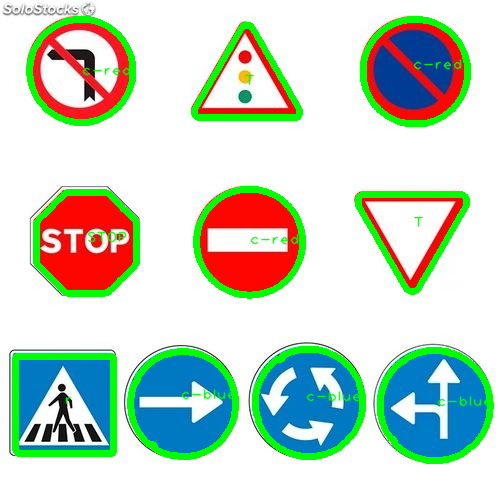
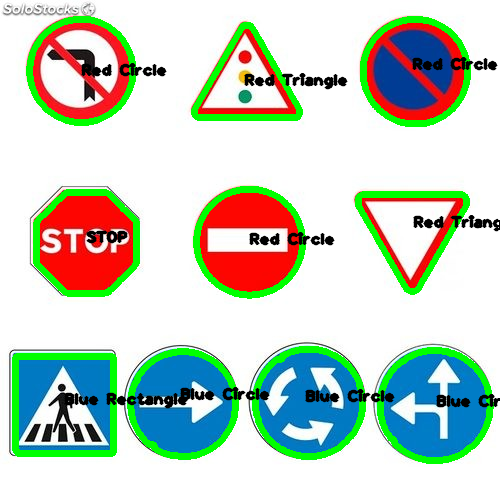
Print Signs Information

diff --git a/project1/src/detector.py b/project1/src/detector.py
@@ -28,9 +28,13 @@ class Detector:
         self.minimumSignSize = MINIMUM_SIGN_SIZE * h * w
         print("Minimum Sign Size: " + str(self.minimumSignSize))
         self.detected = {}
+        self.detectedSigns = []
 
     def getDetected(self):
         return self.detected
+
+    def getDetectedSigns(self):
+        return self.detectedSigns
 
     def prepareImg(self, color, img):
         img = removeAllButOneColor(img,color)
@@ -44,7 +48,7 @@ class Detector:
             "info": [],
             "debugImg": None,
             "coordText": [],
-            "text": "c-" + color
+            "text": color + " Circle"
         }
         self.detected["c-" + color] = circlesObj
         for img in self.arrays[color]:
@@ -61,13 +65,13 @@ class Detector:
                 for coords in approx:
                     circle.append((coords[0][0],coords[0][1]))
                 if calculateArea(circle) >= self.minimumSignSize:
-                    print("Circle: " + str(calculateArea(circle)))
                     center = getCenter(circle)
                     centers.append(center)
                     circles.append([cnt])
-        
-        print("circle: " + str(circles))
-        print("centers: " + str(centers))
+                    self.detectedSigns.append({
+                        "name": self.detected["c-" + color]["text"],
+                        "sign": circle
+                    })
         self.detected["c-" + color]["info"].append(circles)
         self.detected["c-" + color]["coordText"].append(centers)
         return contours, gray, circles
@@ -77,7 +81,7 @@ class Detector:
             "info": [],
             "debugImg": None,
             "coordText": [],
-            "text": "T"
+            "text": color + " Triangle"
         }
         self.detected["t"] = trianglesObj
         for img in self.arrays[color]:
@@ -94,11 +98,13 @@ class Detector:
                             (approx[1][0][0],approx[1][0][1]),
                             (approx[2][0][0],approx[2][0][1])]
                 if calculateArea(triangle) >= self.minimumSignSize:
-                    print("Triangle: " + str(calculateArea(triangle)))
                     center = getCenter(triangle)
                     centers.append(center)
                     triangles.append([cnt])
-
+                    self.detectedSigns.append({
+                        "name": self.detected["t"]["text"],
+                        "sign": triangle
+                    })
         self.detected["t"]["info"].append(triangles)
         self.detected["t"]["coordText"].append(centers)
         return contours, gray, triangles
@@ -108,7 +114,7 @@ class Detector:
             "info": [],
             "debugImg": None,
             "coordText": [],
-            "text": "r"
+            "text": color + " Rectangle"
         }
         self.detected["r"] = rectanglesObj
         for img in self.arrays[color]:
@@ -126,13 +132,13 @@ class Detector:
                             (approx[2][0][0],approx[2][0][1]),
                             (approx[3][0][0],approx[3][0][1])]
                 if calculateArea(rectangle) >= self.minimumSignSize:
-                    print("Rectangle: " + str(calculateArea(rectangle)))
                     center = getCenter(rectangle)
                     centers.append(center)
                     rectangles.append([cnt])
-
-        print("rect: " + str(rectangles))
-        print("centers: " + str(centers))
+                    self.detectedSigns.append({
+                        "name": self.detected["r"]["text"],
+                        "sign": rectangle
+                    })
         self.detected["r"]["info"].append(rectangles)
         self.detected["r"]["coordText"].append(centers)
         return contours, gray, rectangles
@@ -145,12 +151,12 @@ class Detector:
             "text": "STOP"
         }
         self.detected["STOP"] = stopsObj
-        for img in self.arrays["red"]:
+        for img in self.arrays["Red"]:
             self.detectStopInOneImage(img)
 
 
     def detectStopInOneImage(self, img):
-        gray, ret, thresh, contours, h = self.prepareImg("red", img)    
+        gray, ret, thresh, contours, h = self.prepareImg("Red", img)    
         stops = []
         centers = []
         for cnt in contours:
@@ -165,10 +171,13 @@ class Detector:
                         (approx[6][0][0],approx[6][0][1]),
                         (approx[7][0][0],approx[7][0][1])]
                 if calculateArea(stop) >= self.minimumSignSize:
-                    print("STOP: " + str(calculateArea(stop)))
                     center = getCenter(stop)
                     centers.append(center)
                     stops.append([cnt])
+                    self.detectedSigns.append({
+                        "name": self.detected["STOP"]["text"],
+                        "sign": stop
+                    })
         self.detected["STOP"]["info"].append(stops)
         self.detected["STOP"]["coordText"].append(centers)
         return contours, gray, stops

diff --git a/project1/src/preprocessor.py b/project1/src/preprocessor.py
@@ -20,19 +20,19 @@ class Preprocessor:
         w = img.shape[1]
         self.blueList = []
         self.redList = []
-        self.isolateEachElementOfColor('red')
-        self.isolateEachElementOfColor('blue')
+        self.isolateEachElementOfColor('Red')
+        self.isolateEachElementOfColor('Blue')
         temp = cv2.bitwise_or(self.blueProcessed, self.redProcessed)
         self.processedImg = temp.copy()
-        self.isolateEachElementOfColor('red', False)
-        self.isolateEachElementOfColor('blue', False)
+        self.isolateEachElementOfColor('Red', False)
+        self.isolateEachElementOfColor('Blue', False)
         self.printArray(self.blueList)
         self.printArray(self.redList)
     
     def getLists(self):
         return {
-            "blue": self.blueList,
-            "red": self.redList
+            "Blue": self.blueList,
+            "Red": self.redList
         }
 
     def getProcessed(self):
@@ -66,12 +66,8 @@ class Preprocessor:
             for x in range(0, w):
                 if img[y][x][0] == RBG_PURE_COLOR[color][0] and img[y][x][1] == RBG_PURE_COLOR[color][1] and img[y][x][2] == RBG_PURE_COLOR[color][2]:
                     temp = img.copy()
-                    #if not connect:
-                    #    self.print2(temp)
                     cv2.floodFill(temp, None, (x,y),(0,255,255))
-                    temp = removeAllButOneColor(temp, "yellow")
-                    #if not connect:
-                    #    self.print2(temp)
+                    temp = removeAllButOneColor(temp, "Yellow")
                     x_offset = y_offset = val                   
                     frame = np.zeros([h + y_offset*2, w + x_offset*2,3],dtype=np.uint8)
                     frame[y_offset:y_offset+temp.shape[0], x_offset:x_offset+temp.shape[1]] = temp
@@ -85,21 +81,20 @@ class Preprocessor:
         if connect:
             for singleSign in everySign:
                 img = convertToHSV(singleSign)
-                yellow_mask = create_mask(img, ["yellow"])
+                yellow_mask = create_mask(img, ["Yellow"])
                 cv2.bitwise_or(finalImgHSV, img, finalImgHSV, mask=yellow_mask)
 
             finalImg = convertToRGB(finalImgHSV)
-            finalImg[np.where((finalImg==RBG_PURE_COLOR["yellow"]).all(axis=2))] = RBG_PURE_COLOR[color]
-            if color == "red":
+            finalImg[np.where((finalImg==RBG_PURE_COLOR["Yellow"]).all(axis=2))] = RBG_PURE_COLOR[color]
+            if color == "Red":
                 self.redProcessed = finalImg.copy()
-                # self.print2(self.redProcessed)
             else:
                 self.blueProcessed = finalImg.copy()
             
         else:
             for i in range(len(everySign)):
-                everySign[i][np.where((everySign[i]==RBG_PURE_COLOR["yellow"]).all(axis=2))] = RBG_PURE_COLOR[color]
-            if color == "red":
+                everySign[i][np.where((everySign[i]==RBG_PURE_COLOR["Yellow"]).all(axis=2))] = RBG_PURE_COLOR[color]
+            if color == "Red":
                 self.redList = everySign
             else:
                 self.blueList = everySign

diff --git a/project1/src/utils.py b/project1/src/utils.py
@@ -10,21 +10,21 @@ def convertToRGB(img):
     return cv2.cvtColor(img, cv2.COLOR_HSV2BGR)
 
 RBG_PURE_COLOR = {
-    "red": [0,0,255],
-    "blue": [255,0,0],
-    "yellow": [0, 255, 255],
-    "white": [255,255,255]
+    "Red": [0,0,255],
+    "Blue": [255,0,0],
+    "Yellow": [0, 255, 255],
+    "White": [255,255,255]
 }
 
 HSV_PURE_COLOR = {
-    "red": [0,100,255],
-    "blue": [255,0,0],
-    "yellow": [0, 255, 255]
+    "Red": [0,100,255],
+    "Blue": [255,0,0],
+    "Yellow": [0, 255, 255]
 }
 
 HSV_RANGES = {
     # red is a major color
-    'red': [
+    'Red': [
         {
             'lower': np.array([0, 200, 100]),
             'upper': np.array([5, 255, 255])
@@ -35,35 +35,35 @@ HSV_RANGES = {
         }
     ],
     # yellow is a minor color
-    'yellow': [
+    'Yellow': [
         {
             'lower': np.array([21, 39, 64]),
             'upper': np.array([40, 255, 255])
         }
     ],
     # green is a major color
-    'green': [
+    'Green': [
         {
             'lower': np.array([41, 39, 64]),
             'upper': np.array([80, 255, 255])
         }
     ],
     # cyan is a minor color
-    'cyan': [
+    'Cyan': [
         {
             'lower': np.array([81, 39, 64]),
             'upper': np.array([100, 255, 255])
         }
     ],
     # blue is a major color
-    'blue': [
+    'Blue': [
         {
             'lower': np.array([100, 200, 64]),
             'upper': np.array([141, 255, 255])
         }
     ],
     # violet is a minor color
-    'violet': [
+    'Violet': [
         {
             'lower': np.array([141, 39, 64]),
             'upper': np.array([160, 255, 255])
@@ -71,21 +71,21 @@ HSV_RANGES = {
     ],
     # next are the monochrome ranges
     # black is all H & S values, but only the lower 25% of V
-    'black': [
+    'Black': [
         {
             'lower': np.array([0, 0, 0]),
             'upper': np.array([180, 255, 63])
         }
     ],
     # gray is all H values, lower 15% of S, & between 26-89% of V
-    'gray': [
+    'Gray': [
         {
             'lower': np.array([0, 0, 64]),
             'upper': np.array([180, 38, 228])
         }
     ],
     # white is all H values, lower 15% of S, & upper 10% of V
-    'white': [
+    'White': [
         {
             'lower': np.array([0, 0, 150]),
             'upper': np.array([180, 38, 255])

diff --git a/project1/src/printer.py b/project1/src/printer.py
@@ -6,7 +6,7 @@ import numpy as np
 from utils import *
 
 class Printer:
-    """The Printer allows the user to print information on top of an image
+    """The Printer allows the user to print information on top of an image or to STDOUT
     
     The user can 'printLabels' and 'printShapes' on the image
 
@@ -21,25 +21,20 @@ class Printer:
         # Constants
         font = cv2.FONT_HERSHEY_PLAIN
         fontScale = 1
-        color = (-1, 255, 0)
-        thickness = 1
+        color = (0, 0, 0)
+        thickness = 2
 
         # Personalized for each shape
         textToPrint = obj["text"]
         coords = obj["coordText"]
-        print(textToPrint)
-        print("coords: " + str(coords))
         for coord in coords:
-            # print(coord[0])
             if len(coord) > 0:
                 img = cv2.putText(img, textToPrint, coord[0], font, fontScale, color, thickness, cv2.LINE_AA)
         return img
 
     def printShapes(self, img, obj):
         text = obj["text"]
-        #print("==================================")
         for sign in obj["info"]:
-            #print(sign)
             if len(sign) > 0:
                 cv2.drawContours(img, sign[0], 0, (0, 255, 0), 6)
         return img
@@ -47,10 +42,14 @@ class Printer:
     def printAllIntoImage(self, answer):
         for signType in answer:
             obj = answer[signType]
-            #print(obj)
             self.img = self.printShapes(self.img, obj)
             self.img = self.printLabels(self.img, obj)
         return self.img
+    
+    def printToSTDOUT(self, answer):
+        for sign in answer:
+            print(sign["name"] + ": " + str(sign["sign"]))
+
 
     def showAndSave(self):
         cv2.imshow("Signs", self.img)

diff --git a/project1/src/project.py b/project1/src/project.py
@@ -1,8 +1,6 @@
 import cv2
 import sys
 import numpy as np
-import pytesseract
-from pytesseract import Output
 
 # Local imports
 from utils import *
@@ -23,15 +21,16 @@ coloredSigns = pre.getLists()
 
 # Detect image Points of Interest (POI)
 det = Detector(img, coloredSigns)
-det.detectCircles("red")
-det.detectCircles("blue")
-det.detectTriangles("red")
-det.detectRectangles("blue")
+det.detectCircles("Red")
+det.detectCircles("Blue")
+det.detectTriangles("Red")
+det.detectRectangles("Blue")
 det.detectStop()
 ans = det.getDetected()
 
 # Print the Detected POI's into the image
 printer = Printer(original)
+printer.printToSTDOUT(det.getDetectedSigns())
 original = printer.printAllIntoImage(ans)
 printer.showAndSave()
 
